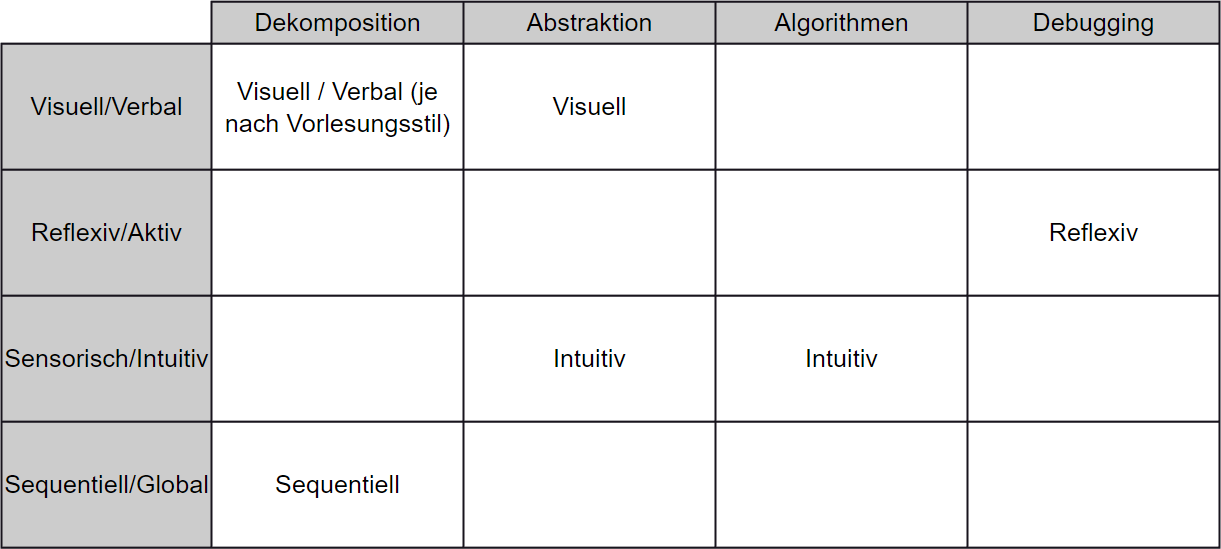
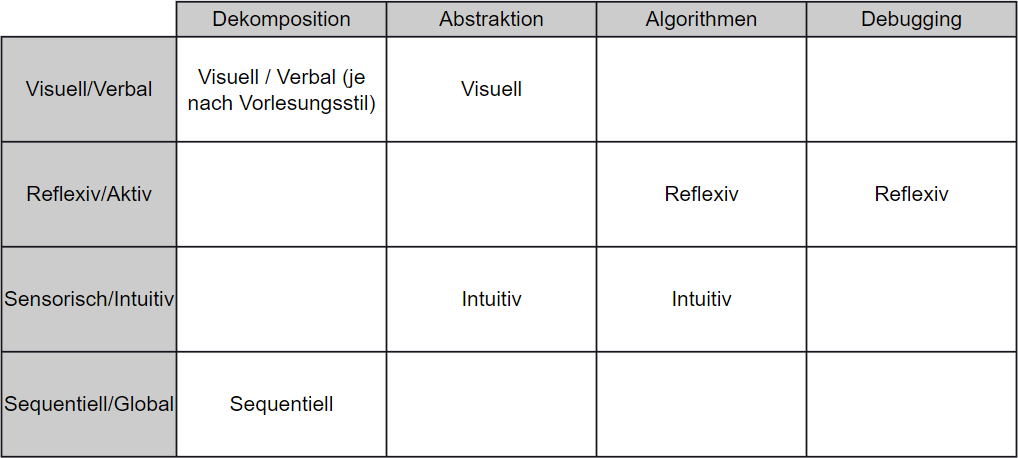
Added a bit more sources to support claims

diff --git a/Sections/Section_3.tex b/Sections/Section_3.tex
@@ -8,11 +8,11 @@ Hierbei wird Objektorientierung (OO) mit funktionaler Programmierung (FP) vergli
 Abschließend wird untersucht, welche Rolle die CT Aspekte in den unterschiedlichen Paradigmen spielen, um zu bestimmen, ob ein Paradigma besondere Vor- und Nachteile aufweist.
 
 % Disclaimer
-Es werden hierbei vermehrt Annahmen zu den Vorlieben der Lerntypen gemacht, aufgrund der Empfehlungen von Felder und Silvermann in Relation zu den Merkmalen der Paradigmen. Aufgrund der zeitlichen Beschränkung der Arbeit können diese Annahmen nicht empirisch überprüft werden.
+Es werden hierbei vermehrt Annahmen zu den Vorlieben der Lerntypen gemacht, aufgrund der Empfehlungen von Felder und Silvermann in Relation zu den Merkmalen der Paradigmen. Aufgrund der zeitlichen Beschränkung der Arbeit können diese Annahmen nicht empirisch überprüft werden (siehe \nameref{sec:similar_srcs}).
 
 \subsection{Lerntypen im Zusammenhang mit Computational Thinking}
 Das Erlernen von Programmierkenntnissen umfasst nicht nur das Schreiben von Code, sondern auch den Erwerb von CT Kompetenzen.
-Nicht jede Lerntypendimension zeigt Vor- oder Nachteile beim Lernen der CT Aspekte, allerdings lassen sich einige klare Zusammenhänge herausstellen.
+Nicht jede Lerntypendimension zeigt Vor- oder Nachteile beim Lernen der CT Aspekte, allerdings lassen sich einige klare Zusammenhänge herausstellen. Es wurde zudem eine Studie betrachtet, die den Zusammenhang der von Felder und Silverman definierten Lerndimensionen speziell im Kontext des Erlernens von CT Aspekten untersucht \cite{chen}.
 
 \subsubsection{Verbal Visuell}
 Visuelle Typen können einen Vorteil beim Erlernen von Abstraktion haben, da grafische Darstellungen eine sehr geeignete und beliebte Form sind, um das Konzept von Abstraktion zu erklären. Beispielsweise in der Objektorientierung werden hierbei öfters Bilder von Objekten wie Tieren oder Fahrzeugen verwendet, die dann auf Codeblöcke abstrahiert werden.
@@ -21,9 +21,10 @@ Zudem können visuelle Lerntypen bei der Dekomposition möglicherweise einen Vor
 
 \subsubsection{Reflexiv Aktiv}
 Reflexive Typen könnten einen klaren Vorteil im Aspekt Debugging haben. Sie sind eher dazu veranlagt, ihre gefundenen Lösungen zu evaluieren und zu hinterfragen. Aktive Typen hingegen sind risikobereiter und sind in ihrer Arbeit experimentierfreudiger. Ihr Ansatz ist es eher, schnell zu scheitern, aber auch schneller neue Lösungen auszuprobieren.
+Reflexive Typen haben zudem noch einen Vorteil im algorithmischen Denken, da diese Probleme oft eigenständig und ohne Diskussion mit Anderen lösen können \cite{chen}.
 
 \subsubsection{Sensorisch Intuitiv}
-Intuitive Typen haben einen klaren Vorteil in der Abstraktion \cite{felderhandout}. Dies ist der Fall unter anderem, da sie sich eher mit Konzepten statt Auswendiglernen beschäftigen. Sie haben oft Schwierigkeiten in Kursen, die stark auf Formelanwendung und Wiederholung setzen, und bevorzugen stattdessen neue Theorien und Interpretationen.
+Intuitive Typen haben einen klaren Vorteil in der Abstraktion, und demnach ebenfalls in der Mustererkennung \cite{felderhandout}. Dies ist der Fall unter anderem, da sie sich eher mit Konzepten statt Auswendiglernen beschäftigen. Sie haben oft Schwierigkeiten in Kursen, die stark auf Formelanwendung und Wiederholung setzen, und bevorzugen stattdessen neue Theorien und Interpretationen. Dies kann ebenfalls durch einen praktischen Versuch bestätigt werden, in dem Vor- und Nachteile der Lerntypen hinsichtlich der CT Aspekte untersucht wurden \cite{chen}.
 Auch im algorithmischen Denken werden Personen mit einem Hang zu intuitivem Lernen einen Vorteil haben, da sie normalerweise Konzepte schneller lernen als sensorische Typen. Sie ziehen Innovation den etablierten Methoden vor und meiden eher Repetition. Dies könnte im Aspekt des algorithmischen Denkens von Vorteil sein, um neue Ansätze für Probleme zu entwickeln. Besonders im Zusammenhang mit dem Aspekt des Debugging könnte diese Innovation zu schnelleren und effizienteren Lösungen führen.
 
 \subsubsection{Sequenziell Global}
@@ -88,7 +89,8 @@ Außerdem könnten sequenzielle Lerntypen einen zusätzlichen Vorteil in der FP 
 Da FP keine veränderlichen Werte und Zustände hat, gibt es zudem keine herkömmlichen Schleifen. Stattdessen erfolgt das wiederholte Ausführen einer Funktion über Rekursion, was ein Umdenken in der Problemlösung erfordert.
 
 \subsubsection{Debugging}
-In der OO gibt es häufiger ein "klassisches" Debuggen. Klassen können diesen Prozess möglicherweise unübersichtlicher machen als in der FP. FP hingegen setzt stark auf Fehlervermeidung, indem Funktionen keine Seiteneffekte haben und deterministisch sind. Durch die eindeutige Verantwortung jeder Funktion treten weniger Flüchtigkeitsfehler oder unbeabsichtigte Seiteneffekte auf. Statt klassischem Debugging ist eine ständige Reflexion essenziell, und Fehler in der Funktionskomposition und in der Datenflusslogik finden.
+In der OO gibt es häufiger ein "klassisches" Debuggen. Klassen können diesen Prozess möglicherweise unübersichtlicher machen als in der FP. FP hingegen setzt stark auf Fehlervermeidung, indem Funktionen keine Seiteneffekte haben und deterministisch sind. Durch die eindeutige Verantwortung jeder Funktion treten weniger Flüchtigkeitsfehler oder unbeabsichtigte Seiteneffekte auf.
+Während FP tendenziell weniger Bugs durch Seiteneffekte produziert, erfordert das Debuggen trotzdem mehr Reflexion, weil die Fehlerquellen oft in der Funktionskomposition und Typensystemen liegen.
 Es zeigt sich daher, dass funktionale Programmiersprachen wie Clojure, Scala und Haskell tendenziell weniger nachträgliche Bugfixes in Relation zu anderen Commit Typen haben, als vergleichbare objektorientierte Sprachen wie Java oder C++.
 
 \begin{figure}[H]
@@ -124,7 +126,7 @@ Insbesondere folgende Lerntypen werden demnach Vorteile haben, wenn sie ihren Pr
 
 \begin{description}
     \item[Visuell] Da durch einen Vorteil in der Abstraktion ein direkter Bezug zu FP im Zusammenhang mit mathematischen Formeln gemacht werden kann. Ein weiterer Vorteil in der Dekomposition kann sowohl visuellen als auch verbalen Lerntypen zugeordnet werden, abhängig von den in der Vorlesung verwendeten Darstellungsformen.
-    \item[Reflexiv] Da Programmierung tendenziell eher in Einzelarbeit erfolgt, und der Lerntyp in herkömmlichen Vorlesungsstilen besser unterstützt wird. Zudem profitiert der reflexive Typ stark durch die Fehlervermeidungsstrategie von FP. Durch ständige Reflexion der Teillösungen können potenzielle Fehler früh erkannt werden. Der Vorteil im Debugging bietet reflexiven Lerntypen einen entscheidenden Vorteil bei der Anwendung von FP.
+    \item[Reflexiv] Da Programmierung tendenziell eher in Einzelarbeit erfolgt, und der Lerntyp in herkömmlichen Vorlesungsstilen besser unterstützt wird. Der reflexive Typ profitiert stark durch die Fehlervermeidungsstrategie von FP. Durch ständige Reflexion der Teillösungen können potenzielle Fehler früh erkannt werden. Der Vorteil im Debugging bietet reflexiven Lerntypen einen entscheidenden Vorteil bei der Anwendung von FP. Zudem hat der reflexive Typ einen Vorteil in der effektiven Findung von Lösungen durch algorithmisches Denken.
     \item[Intuitiv] Da dieser Typ in der FP einen besonderen Vorteil in der Abstraktion hat, die in der FP essenziell ist, da die meisten funktionalen Programmiersprachen auf dem Lambda-Kalkül basieren. Da Innovation bei neuen Algorithmen wichtig in der FP ist, hat dieser Typ auch hier einen Vorteil. Zudem kann eine intuitive Lernweise das natürliche Anwenden von Rekursion in der Lösungsstrategie begünstigen, da eine Ausprägung der intuitiven Lerndimension das Anwenden innovativer Algorithmen unterstützen kann.
     \item[Sequenziell] Da FP einen eher sequenziell veranlagten Entwicklungsstil hat, in dem ein Teilproblem nach dem anderen angegangen wird. Zudem kann eine sequenzielle Veranlagung zusätzlich bei der Anwendung von Dekomposition helfen, um die einzelnen Teile der Problematik nacheinander zu betrachten.
 \end{description}
@@ -137,7 +139,7 @@ Andererseits haben im Umkehrschluss zum vorherigen Abschnitt wiederum folgende L
 
 \begin{description}
     \item[Verbal] Da verbal schwieriger ein Bezug zu den mathematischen Grundlagen von FP gemacht werden kann. Ob ein verbaler oder ein visueller Typ in der Dekomposition eher im Nachteil ist, ist jedoch wie bereits erwähnt größtenteils abhängig davon, welche Darstellungsformen in der Vorlesung verwendet werden.
-    \item[Aktiv] Da die Programmierung allgemein reflexive Typen bevorzugt. Zudem widerspricht ein aktiver Stil der Fehlervermeidung in FP, da diese eine ausführliche Reflexion der Arbeitsschritte erfordert.
+    \item[Aktiv] Da die Programmierung allgemein reflexive Typen bevorzugt. Ein aktiver Stil widerspricht der Fehlervermeidung in FP, da diese eine ausführliche Reflexion der Arbeitsschritte erfordert. Zudem hat ein aktiver Typ Nachteile in der Findung von Lösungen durch algorithmisches Denken. Informationen können durch aktives Arbeiten und Diskussion besser verarbeitet werden und brauchen so mehr Zeit, um richtig entwickelt zu werden. 
     \item[Sensorisch] Da nicht so ein guter Bezug zu echten Problemen hergestellt werden kann. Zudem hat ein sensorischer Typ eher Nachteile beim Erlernen von Abstraktion und beim innovativen Ausarbeiten von neuen Lösungen für Probleme. Das Anwenden etablierter Methoden ist besonders beim Erlernen von FP schwieriger, da sich das Paradigma von anderen Programmierstilen stark unterscheidet.
     \item[Global] Da eher ein sequenzielles Denken gefordert ist. In der OO ist ein globales Denken von Vorteil, da der Zusammenhang zwischen den Domänen eine Rolle spielt und ein Verständnis der gesamten Architektur nötig ist. In der FP allerdings werden die Probleme eher schrittweise angegangen, was für diesen Lerntypen ein Nachteil sein könnte.
 \end{description}

diff --git a/Sections/Section_4.tex b/Sections/Section_4.tex
@@ -37,7 +37,7 @@ Die individuellen Ausprägungen der Lerntypen werden im praktischen Versuch hins
 Die Ausprägungen sollten sich demnach wie folgt auswirken.
 
 \begin{itemize}
-    \item Ein leichter Nachteil beim Debugging in funktionaler Programmierung (FP), und beim Erlernen von Programmieren in Einzelarbeit, allerdings auch ein schnelleres Ausprobieren von Ansätzen
+    \item Ein leichter Nachteil beim Debugging in funktionaler Programmierung (FP), und beim Erlernen von Programmieren in Einzelarbeit, allerdings auch ein schnelleres Ausprobieren von Ansätzen. Zudem ein leichter Nachteil in der Anwendung von algorithmischem Denken und der effektiven Findung von Lösungsansätzen.
     \item Ein Nachteil beim Anwenden von algorithmischem Denken und der Erkennung der Zusammenhänge zwischen FP und mathematischen Funktionen, sowie beim innovativen Arbeiten mit einem limitierten Toolset. Demnach ebenfalls ein Nachteil bei der Findung von rekursiven Lösungsansätzen
     \item Ein möglicher mäßiger Vorteil bei der Dekomposition aus der Perspektive eines visuellen Lerntypen, allerdings ein Nachteil bei der Abstraktion aufgrund einer eher sensorischen Ausprägung
     \item Kein besonderer zusätzlicher Vorteil bei der Dekomposition aus der Perspektive eines sequenziellen Lerntyps, sowie der generellen Anwendung von FP in einer sequenziellen Lösungsstrategie
@@ -83,7 +83,7 @@ Bei der Bearbeitung der Aufgabe konnten mehrere Beobachtungen gemacht werden, di
 Tatsächlich erwies sich die Visualisierung des Problems durch einen physischen Nachbau als eine der hilfreichsten Strategien in der Lösungsfindung.
 Auch das Aufteilen des Problems in Teilverantwortungen fiel leicht, jedoch ist dies unabhängig von den Vor- und Nachteilen des visuellen Lerntypen zu betrachten, da hierbei keine spezifischen visuellen Methoden eingesetzt wurden.
 
-Hinsichtlich der aktiven/reflektiven Dimension wurden aufgrund eines leichten Hanges zum aktiven Typen mit Schwierigkeiten des reflektierten Arbeitens beim Debugging gerechnet. Tatsächlich ließ sich beobachten, dass eine sehr aktive Arbeitsweise verwendet wurde, bei der das schnelle Ausprobieren und Fehlschlagen im Vordergrund standen. Hierbei waren einige unterstützende Tools behilflich (siehe \nameref{sec:tools_prac}).
+Hinsichtlich der aktiven/reflektiven Dimension wurden aufgrund eines leichten Hanges zum aktiven Typen mit Schwierigkeiten des reflektierten Arbeitens beim Debugging und bei der Anwendung von algorithmischem Denken gerechnet. Tatsächlich ließ sich beobachten, dass eine sehr aktive Arbeitsweise verwendet wurde, bei der das schnelle Ausprobieren und Fehlschlagen im Vordergrund standen. Hierbei waren einige unterstützende Tools behilflich (siehe \nameref{sec:tools_prac}).
 Im Nachhinein lässt sich sagen, dass diese Vorgehensweise im Kontext von FP nicht optimal war. Sie führte dazu, dass mehr Zeitaufwand für eine rekursive Lösung nötig war, als mit einer reflektierteren Arbeitsweise nötig gewesen wäre.
 
 In der intuitiv/sensorischen Dimension wurden ebenfalls einige Hürden erwartet. Sensorische Typen haben eher Schwierigkeiten bei der Arbeit mit Abstraktion und Algorithmen als ihr Gegenpaar. Besonders in der FP lassen sich etablierte Methoden und Denkweisen nur schlecht anwenden, da sich das Paradigma stark von anderen Programmierstilen unterscheidet.

diff --git a/Sections/Section_5.tex b/Sections/Section_5.tex
@@ -44,8 +44,9 @@ Letztendlich orientierte sich die Struktur stärker an den Forschungsfragen als 
 Zusätzlich erwies sich als herausfordernd, die Wichtigkeit der einzelnen CT und FP Aspekte angemessen herauszustellen. Beispielsweise ist Rekursion ein zentrales Konzept in der FP, ließ sich im Forschungsteil aber nur mit algorithmischem Denken in Verbindung setzen. Es war schwierig angemessen zu artikulieren, welche Aspekte der FP besonders relevant sind, insbesondere durch den Mangel an nötiger praktischer Erfahrung im Thema. Dadurch ist es möglich, dass einige wichtige Schwerpunkte der FP nicht ausreichend im Forschungsteil berücksichtigt wurden.
 
 Eine weitere Schwierigkeit war insgesamt, die Forschungsfragen mit dem Selbstversuch zu belegen. Der Zweck des Selbstversuches war es, einen Programmieranfangenden zu simulieren, der noch keine Erfahrungen in funktionaler Programmierung gemacht hat. Die Autorin hatte zwar keine funktionalen Programmierkenntnisse, allerdings bereits generelles Programmierwissen. Es bleibt daher unklar, inwiefern die bereits angeeigneten CT Aspekte in der Lösungsfindung geholfen haben. Insbesondere die Aspekte, in denen ein Vorteil gegeben war, also die Abstraktion und Dekomposition, sind Aspekte der Informatik, die im Verlaufe des Studiums immer wieder weitergebildet und trainiert werden.
-Besonders bei der Implementierung fiel auf, dass eher auf herkömmliche prozedurale Denkstrukturen zurückgegriffen wurden, die anschließend in funktionale Funktionen umgewandelt wurden.
-Stattdessen sollten die Programmierfähigkeiten von Grund auf mit funktionaler Programmierung betrachtet werden. Eine Diskussion dazu, wie dieses Problem umgangen werden könnte, findet sich im Abschnitt \nameref{sec:empirical}.
+Besonders bei der Implementierung fiel auf, dass eher auf herkömmliche prozedurale Denkstrukturen zurückgegriffen wurden, die anschließend in funktionale Funktionen umgewandelt wurden. Stattdessen sollten die Programmierfähigkeiten von Grund auf mit funktionaler Programmierung betrachtet werden.
+Es ist zudem unklar, ob die Schwierigkeiten, die im Laufe des praktischen Teiles auftraten, tatsächlich in Verbindung mit den Lerntypen gebracht werden können, oder ob diese nicht möglicherweise eher mit FP grundsätzlich zusammenhängen.
+Eine Diskussion dazu, wie diese Probleme umgangen werden könnten, findet sich im Abschnitt \nameref{sec:empirical}.
 
 Zudem, als ein eher allgemeines Problem des Selbstversuches, war es sehr schwer und zeitaufwendig, sich mit der neuen Syntax von Haskell auseinanderzusetzen. Die Sprache ist fern genug von allen im Studium erlernten Programmierkenntnissen, um in der Bearbeitung eine Schwierigkeit darzustellen.
 Das lokale Einrichten der Sprache, sowie die Verwendung der REPL war allerdings sehr einfach, und gab schnelles Feedback beim Durchführen der Aufgaben.

diff --git a/Sections/Anhang.tex b/Sections/Anhang.tex
@@ -54,6 +54,16 @@ Nicht alle Module listeten die benötigten Informationen. Es wird in der Analyse
 \\
 Die Excel-Tabelle mit den extrahierten Daten lässt sich im Repository der Bachelorarbeit finden \cite{repoxlsx}.
 
+\subsection{Ähnliche Forschungsergebnisse zum Forschungsteil}\label{sec:similar_srcs}
+Da zum Zusammenhang von CT, Lerntypen und Programmierparadigmen wenig vorhandene Quellen gefunden wurden, basieren viele Annahmen des Forschungsteils auf Spekulationen, die auf Basis des Rechercheteils gemacht wurden.
+Um genauere Forschungsergebnisse zu erzielen, würde es sich anbieten, eine eigene Studie im Rahmen der Bachelorarbeit durchzuführen. Dies konnte in dieser Arbeit aufgrund von zeitlichen Einschränkungen nicht umgesetzt werden, wäre allerdings eine mögliche Erweiterung der Forschungsfragen.
+
+Die Quelle zum Thema CT und Lerntypen \cite{chen} bestätigte vorhandene Forschungsergebnisse nachträglich und erweiterte diese leicht. Es gibt auch andere Quellen, die allerdings nicht komplett mit den betrachteten Themen übereinstimmen. Hierzu wurden mehrere Untersuchungen von CT gefunden, allerdings nicht speziell im Kontext von Programmierparadigmen und Lerntypen.
+
+Beispielweise wurde hierbei vor der Verfassung des Forschungsteils eine Arbeit speziell zum Thema Entwicklung von CT mit Lernstilen betrachtet \cite{boardgames}, allerdings verwendete die Arbeit das Lerntypenmodell nach David Kolb. Die Arbeit analysierte zudem eher die Methodiken, die verwendet werden können, um CT Kompetenzen möglichst effizient zu lehren, und bietet weniger Inhalt hinsichtlich des Zusammenhanges mit einzelnen Lerntypen.
+
+Eine weitere Quelle \cite{michaelson} zum Thema Programmierparadigmen und CT half, die Wahl der häufigsten Paradigmen im Rechercheteil zu bestätigen. Allerdings stellt diese Arbeit eher fest, dass CT eigentlich ein eigenes Paradigma der Programmierung ist und als solches angesehen werden sollte. Weniger wird CT in den Kontext von anderen Programmierparadigmen wie OO Programmierung, Prozedurale Programmierung und weitere gesetzt. Von daher konnten die Schlussfolgerungen der Arbeit eher schwierig für den Forschungsteil verwendet werden.
+
 \subsection{Auswahl des Problems für den Selbstversuch}\label{sec:choice_prac}
 Die Auswahl des Programmierproblems in Abschnitt 4 der Arbeit erfolgte an mehreren Kriterien. Es sollte ein relativ einfaches Problem gewählt werden, das eher einen Zweck demonstriert als kreative Lösungen erfordert.
 Zunächst wurde hierbei entschieden, einen Algorithmus zur automatischen Lösung und Erstellung eines Sudoku zu schreiben.

diff --git a/Sections/Section_2.tex b/Sections/Section_2.tex
@@ -8,8 +8,8 @@ Anschließend wird untersucht, wie das Erlernen von Programmierkenntnissen defin
 Dazu wird CT in diesem Abschnitt exakt für die Arbeit definiert und auf vier häufigste Aspekte reduziert. Zudem wird das Lerntypenmodell, das in dieser Arbeit verwendet wird, erläutert. Dieses dient zur Untersuchung der verschiedenen Lernstile der Programmieranfangenden.
 
 \subsection{Aktuelle Lerninhalte an Universitäten und Hochschulen}
-Umfragen unter Entwicklerinnen der letzten Jahre haben gezeigt, dass objektorientierte Sprachen noch immer zu den am meisten verwendeten zählen, sowohl im Berufsleben als auch unter Lernenden \cite{stackoverflow}. Dieser Abschnitt untersucht, ob auch an deutschen Universitäten noch vermehrt objektorientierte Paradigmen gelehrt werden.
-Darauf aufbauend lässt sich bewerten, ob funktionale Programmierung bereits an Hochschulen gelehrt wird, und überhaupt als Alternative in Erwägung gezogen werden kann.
+Umfragen unter Entwickelnden der letzten Jahre haben gezeigt, dass objektorientierte Sprachen noch immer zu den am meisten verwendeten zählen, sowohl im Berufsleben als auch unter Lernenden \cite{stackoverflow}. Dieser Abschnitt untersucht, ob auch an deutschen Universitäten noch vermehrt objektorientierte Paradigmen gelehrt werden.
+Darauf aufbauend lässt sich bewerten, ob funktionale Programmierung überhaupt als Alternative in Erwägung gezogen werden kann.
 
 \subsubsection{Übersicht bekannter Paradigmen}
 Um die häufig behandelten Paradigmen untersuchen zu können, müssen zunächst die wichtigsten Kategorien definiert werden. Dazu werden die vier verbreitetsten Paradigmen betrachtet \cite{normak}.
@@ -43,6 +43,7 @@ In den meisten Fällen wird an Institutionen Java als Einführung in die Program
 Ein funktionaler Ansatz für Programmiereinsteigende ist in Deutschland bislang kaum etabliert.
 
 \subsection{Computational Thinking}
+Um zu definieren, welche Aspekte genau zum Erlernen von Programmierkenntnissen nötig sind, müssen die einzelnen Aspekte von CT betrachtet und definiert werden. Anschließend können auf Basis der Recherche Vor- und Nachteile in der Anwendung und Erlernung von CT der einzelnen Lerntypen untersucht werden.
 
 \subsubsection{Definition}
 Der Begriff CT wurde erstmals 1980 verwendet \cite{papert}, schlussendlich allerdings erst 2006 wieder weitläufig durch eine Kolumne in den öffentlichen Diskurs gebracht \cite{wing2006}.

diff --git a/Sections/Section_1.tex b/Sections/Section_1.tex
@@ -2,7 +2,7 @@
 \section{Einleitung}
 \label{sec:intro}
 
-Obwohl sich seit Jahren bemüht wird, Programmierung einfacher für Studien Beginnende\footnote{In der Arbeit werden generell geschlechtsneutrale Begriffe verwendet, insofern sich diese nicht auf eine spezielle Person beziehen. Die verwendeten Personenbezeichnungen beziehen sich auf alle Geschlechter, und sollten allgemein zu verstehen sein.} zu gestalten, sind die deutschen Abbruchquoten in der Informatik in Relation zu der Anzahl an Studierenden \cite{destatis} dennoch hoch im Vergleich zu anderen Studienfeldern. \cite{dhzw}.
+Obwohl sich seit Jahren bemüht wird, den Einstieg in die Programmierung einfacher zu gestalten, sind die Abbruchquoten in der Informatik in Deutschland im Verhältnis zu Anzahl der Studierenden\footnote{In der Arbeit werden generell geschlechtsneutrale Begriffe verwendet, insofern sich diese nicht auf eine spezielle Person beziehen. Die verwendeten Personenbezeichnungen beziehen sich auf alle Geschlechter, und sollten allgemein zu verstehen sein.} weiterhin hoch \cite{destatis}. Dies lässt sich besonders im Vergleich zu anderen Studienfeldern erkennen \cite{dhzw}.
 Es entstehen immer wieder ähnliche Probleme und Frustrationen, sowohl bei den Studierenden als auch beim Lehrpersonal \cite{mcdonald}.
 
 Hierbei ergibt sich die Frage, ob das Lernen von Programmieren individuelle Unterschiede je nach Person hat, die diese Problematiken besonders begünstigen. In dieser Arbeit soll untersucht werden, welche möglichen Stärken und Schwächen es gibt, die sich deutlicher in verschiedenen Personen auszeichnen, und mit welchen Programmierparadigmen diese jeweiligen Lerntypen dabei unterstützt werden können, Programmierung leichter zu erlernen.
